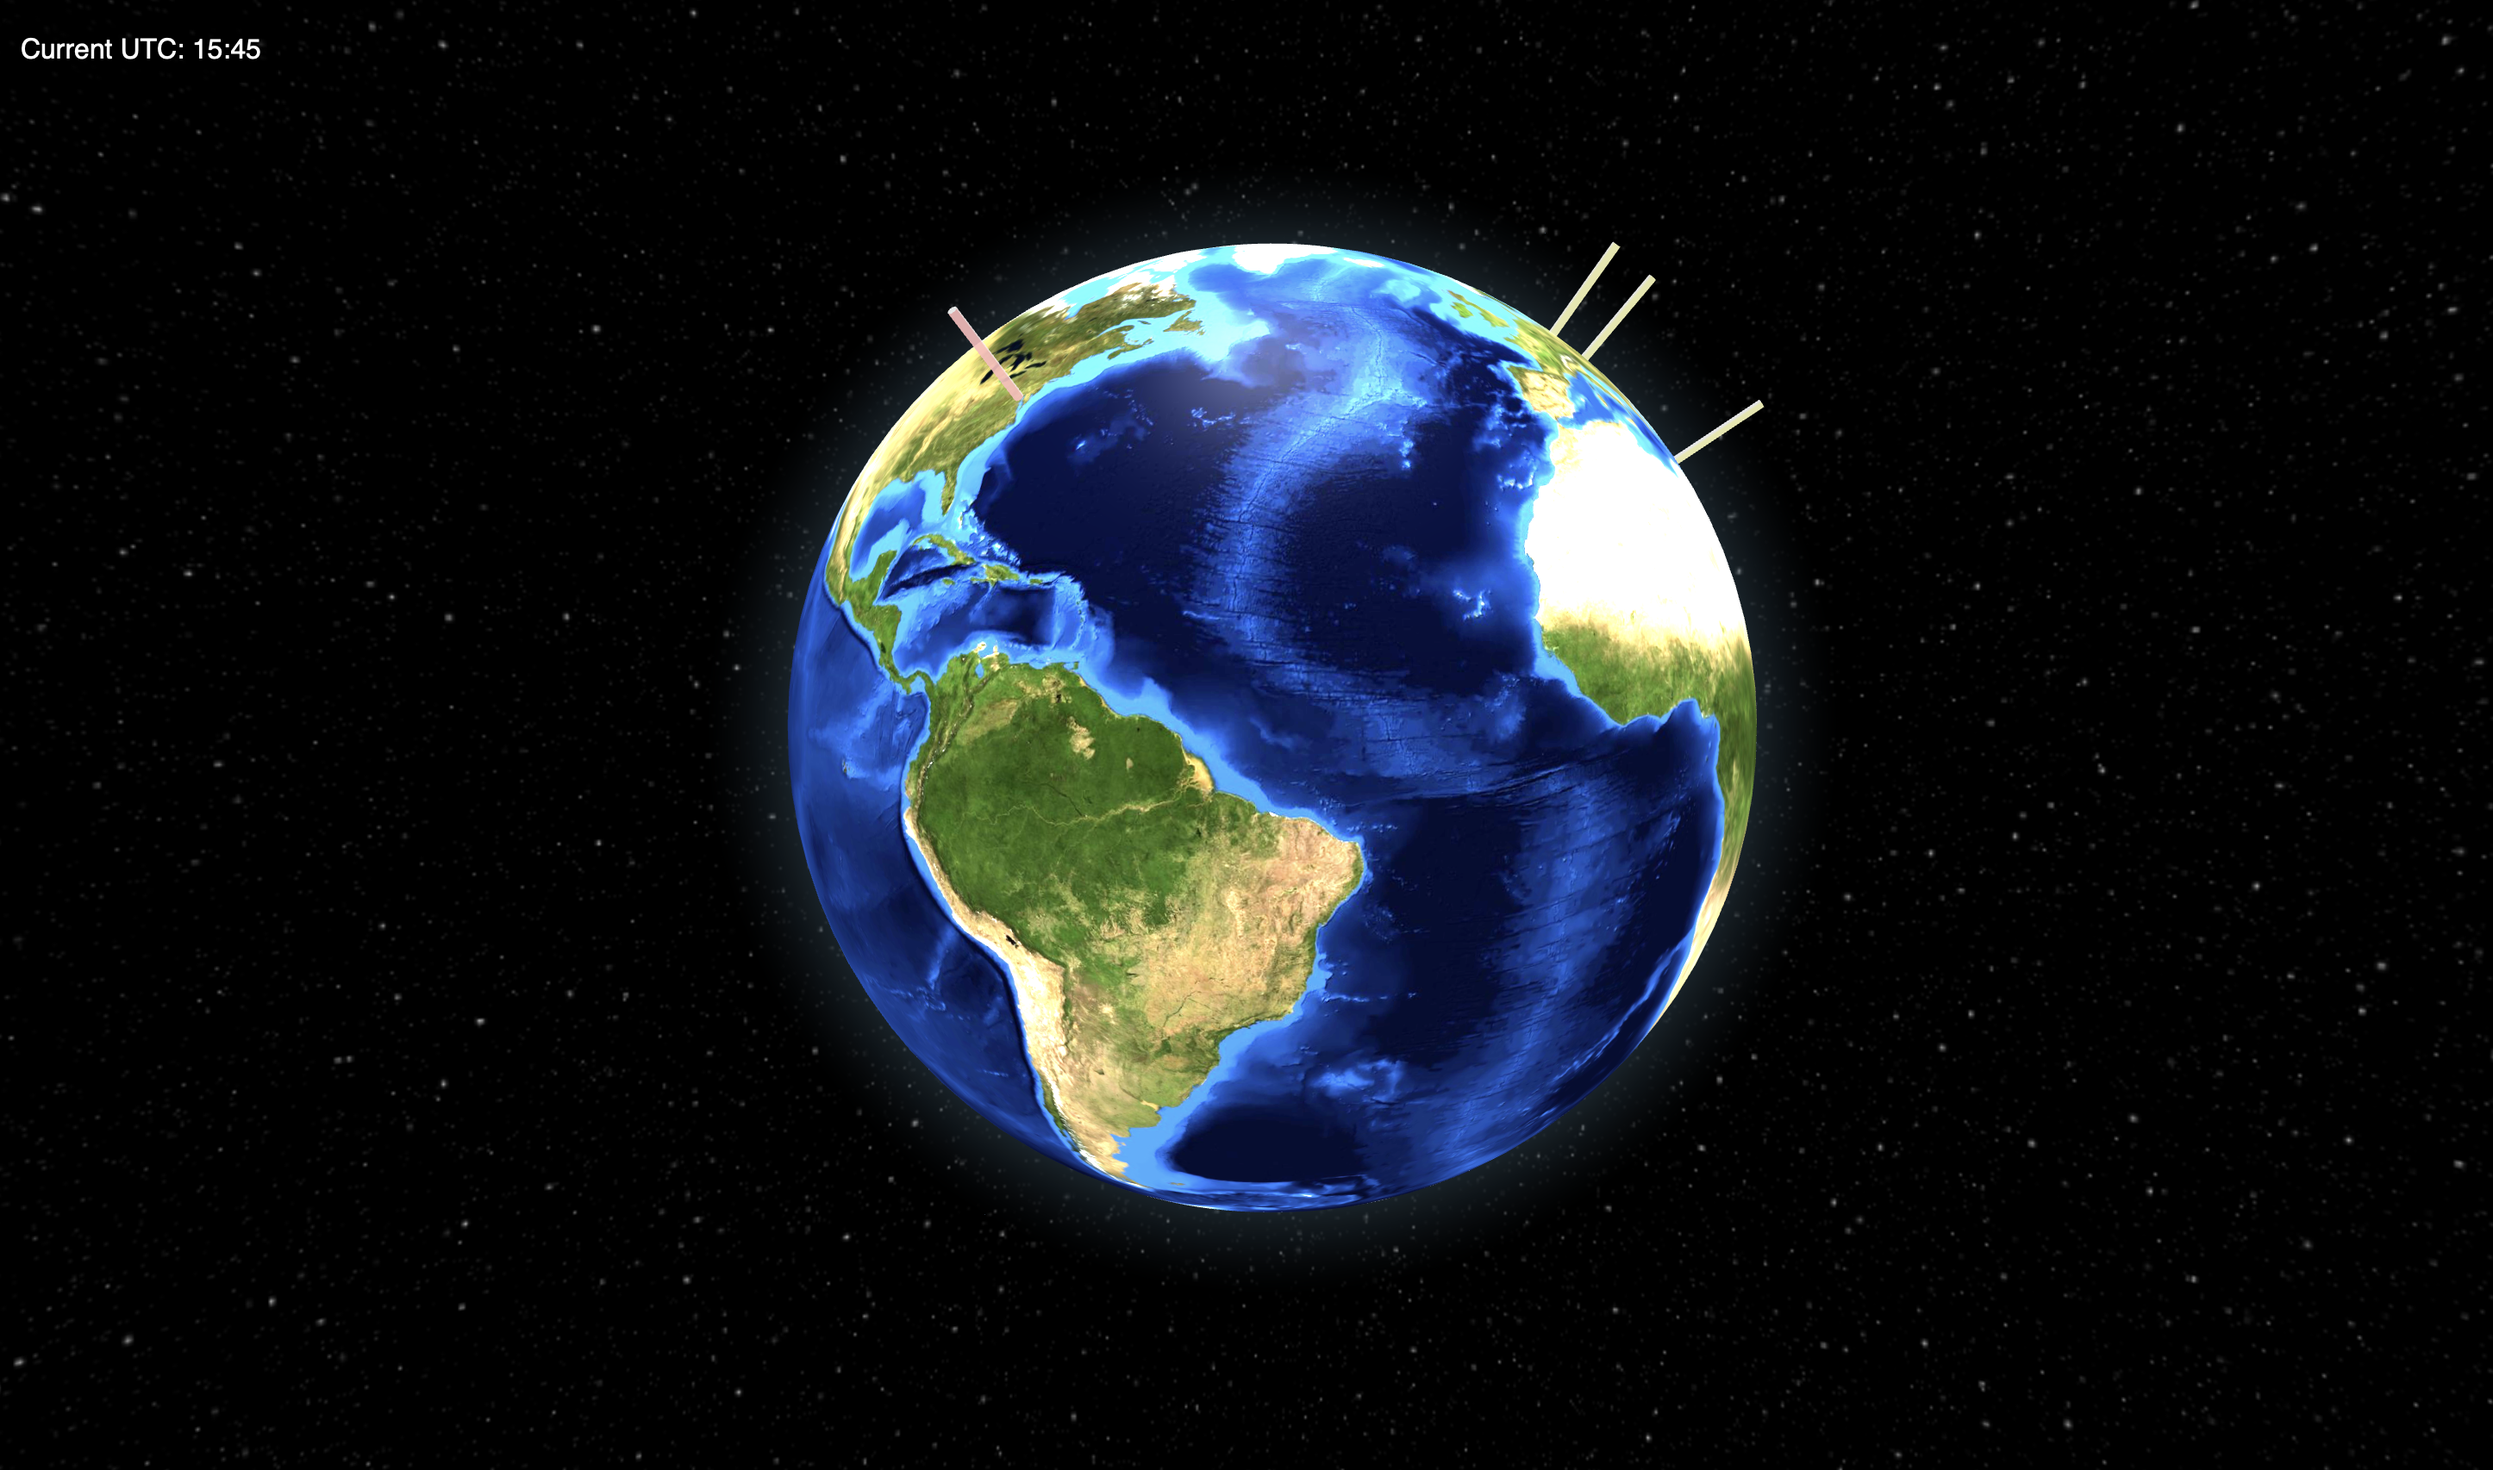
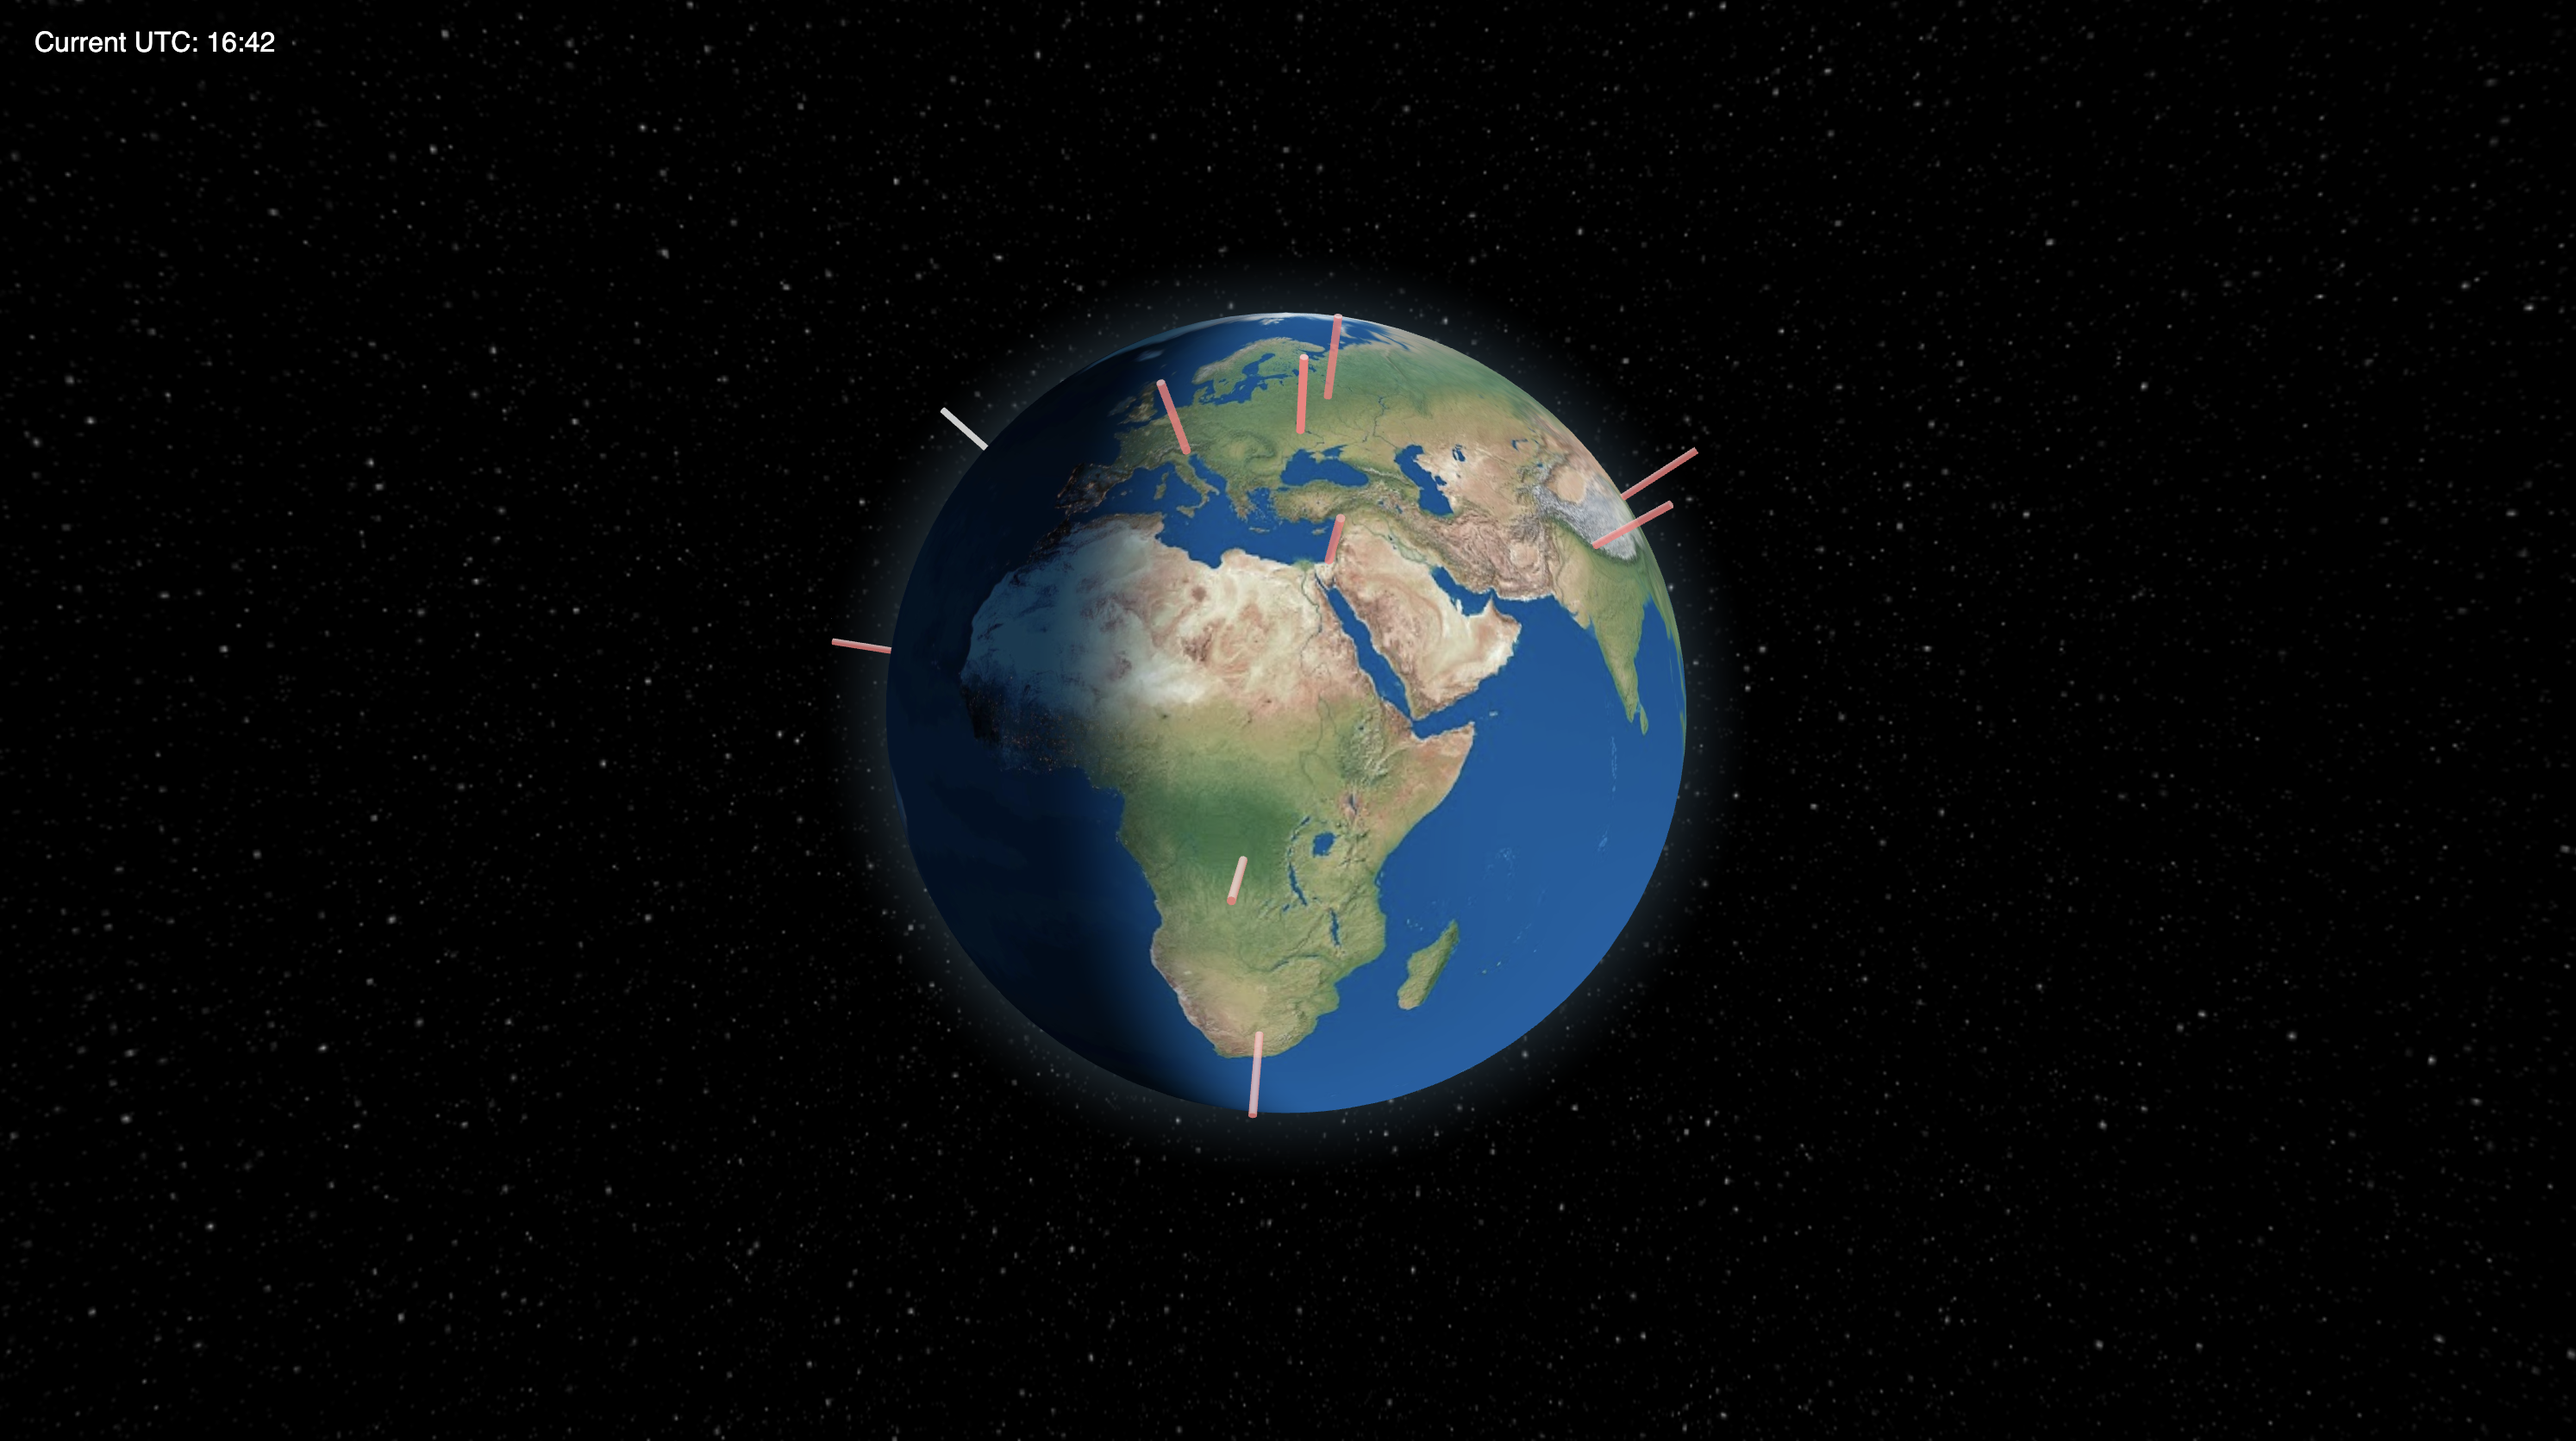
Update project files

Changed region(s): [[0.2801, 0.1244, 0.7158, 0.8397], [0.0, 0.0, 0.0934, 0.0622], [0.9959, 0.933, 1.0, 0.9641]]

diff --git a/README.md b/README.md
@@ -49,3 +49,5 @@ Python 3.9+ (includes python3 -m http.server)
 curl (standard on Linux/macOS, install via WSL on Windows)
 pip (Python package installer)
 
+![Localhost Screenshot](screenshot.png)
+
